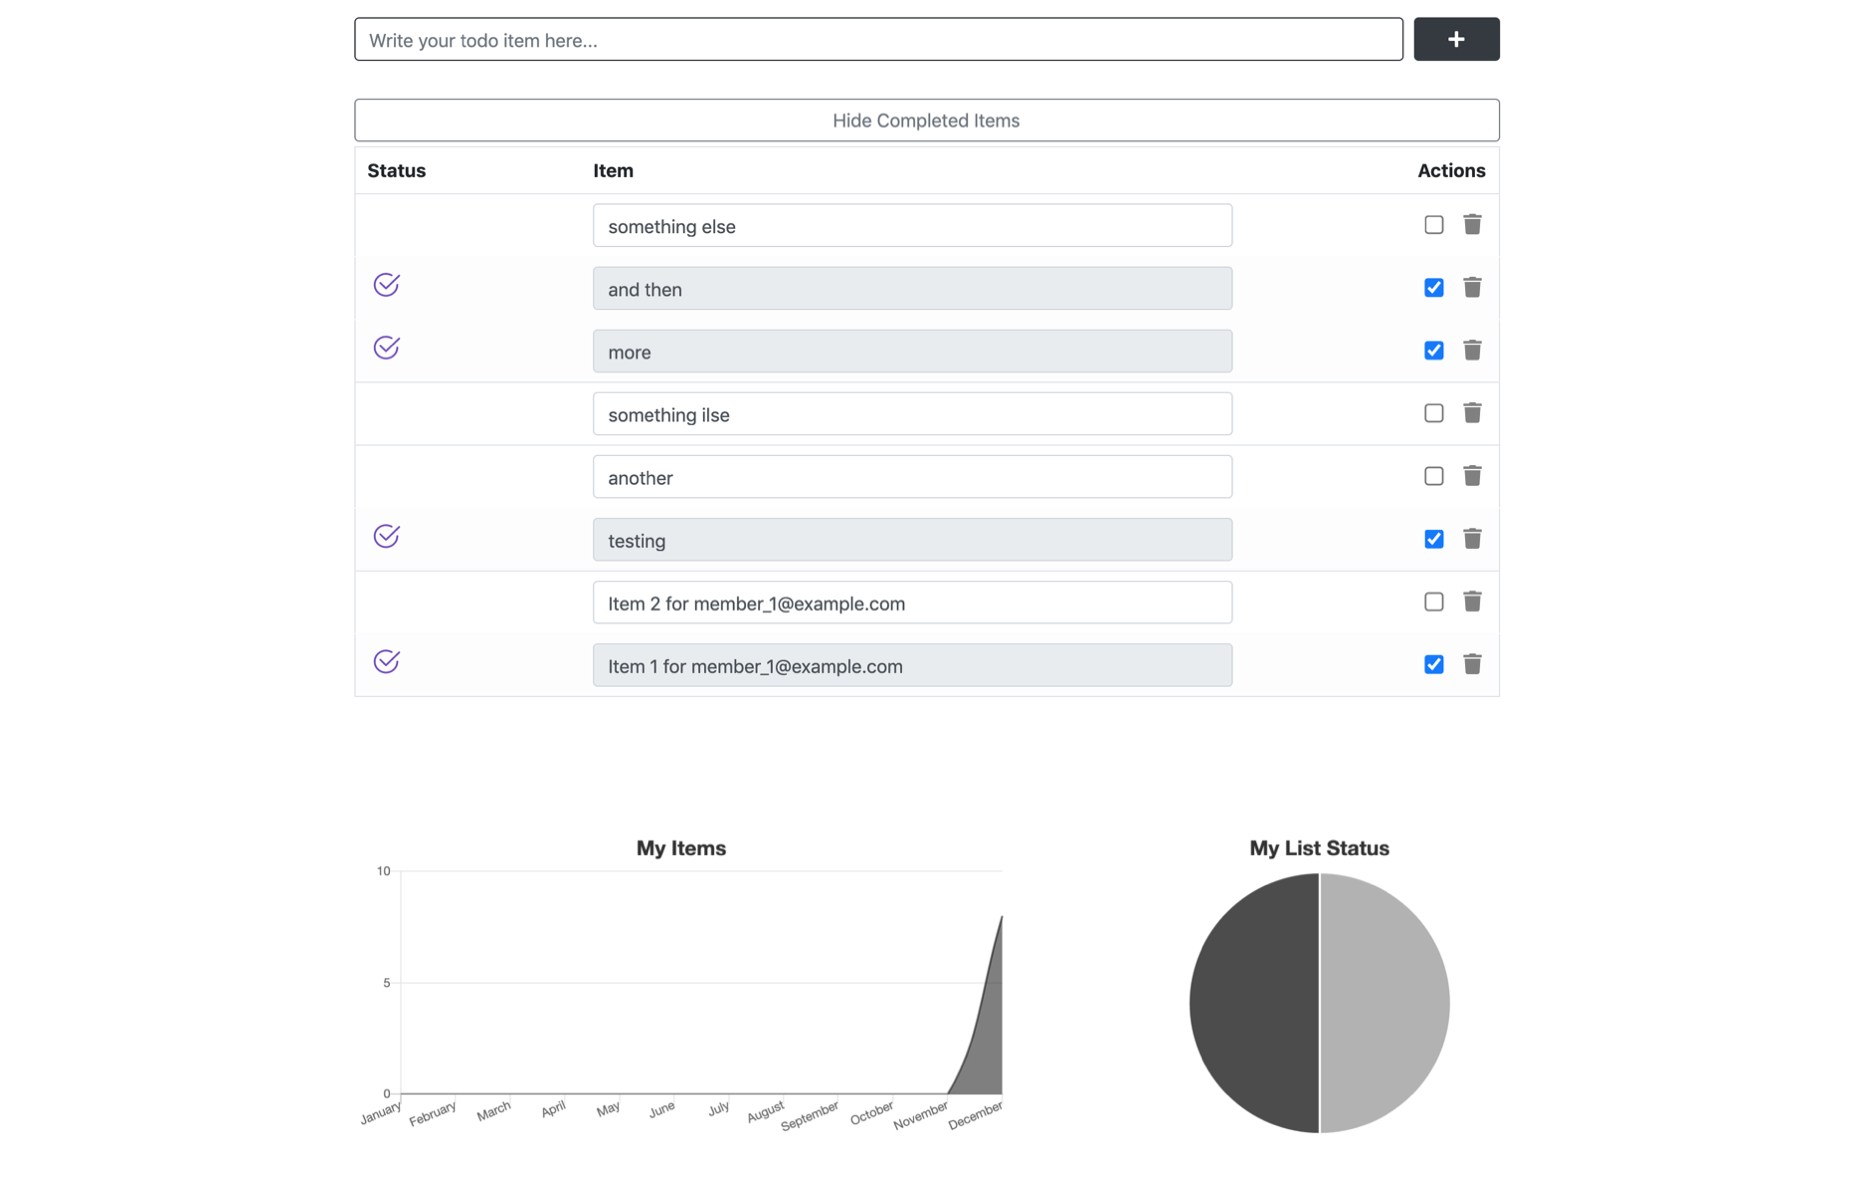
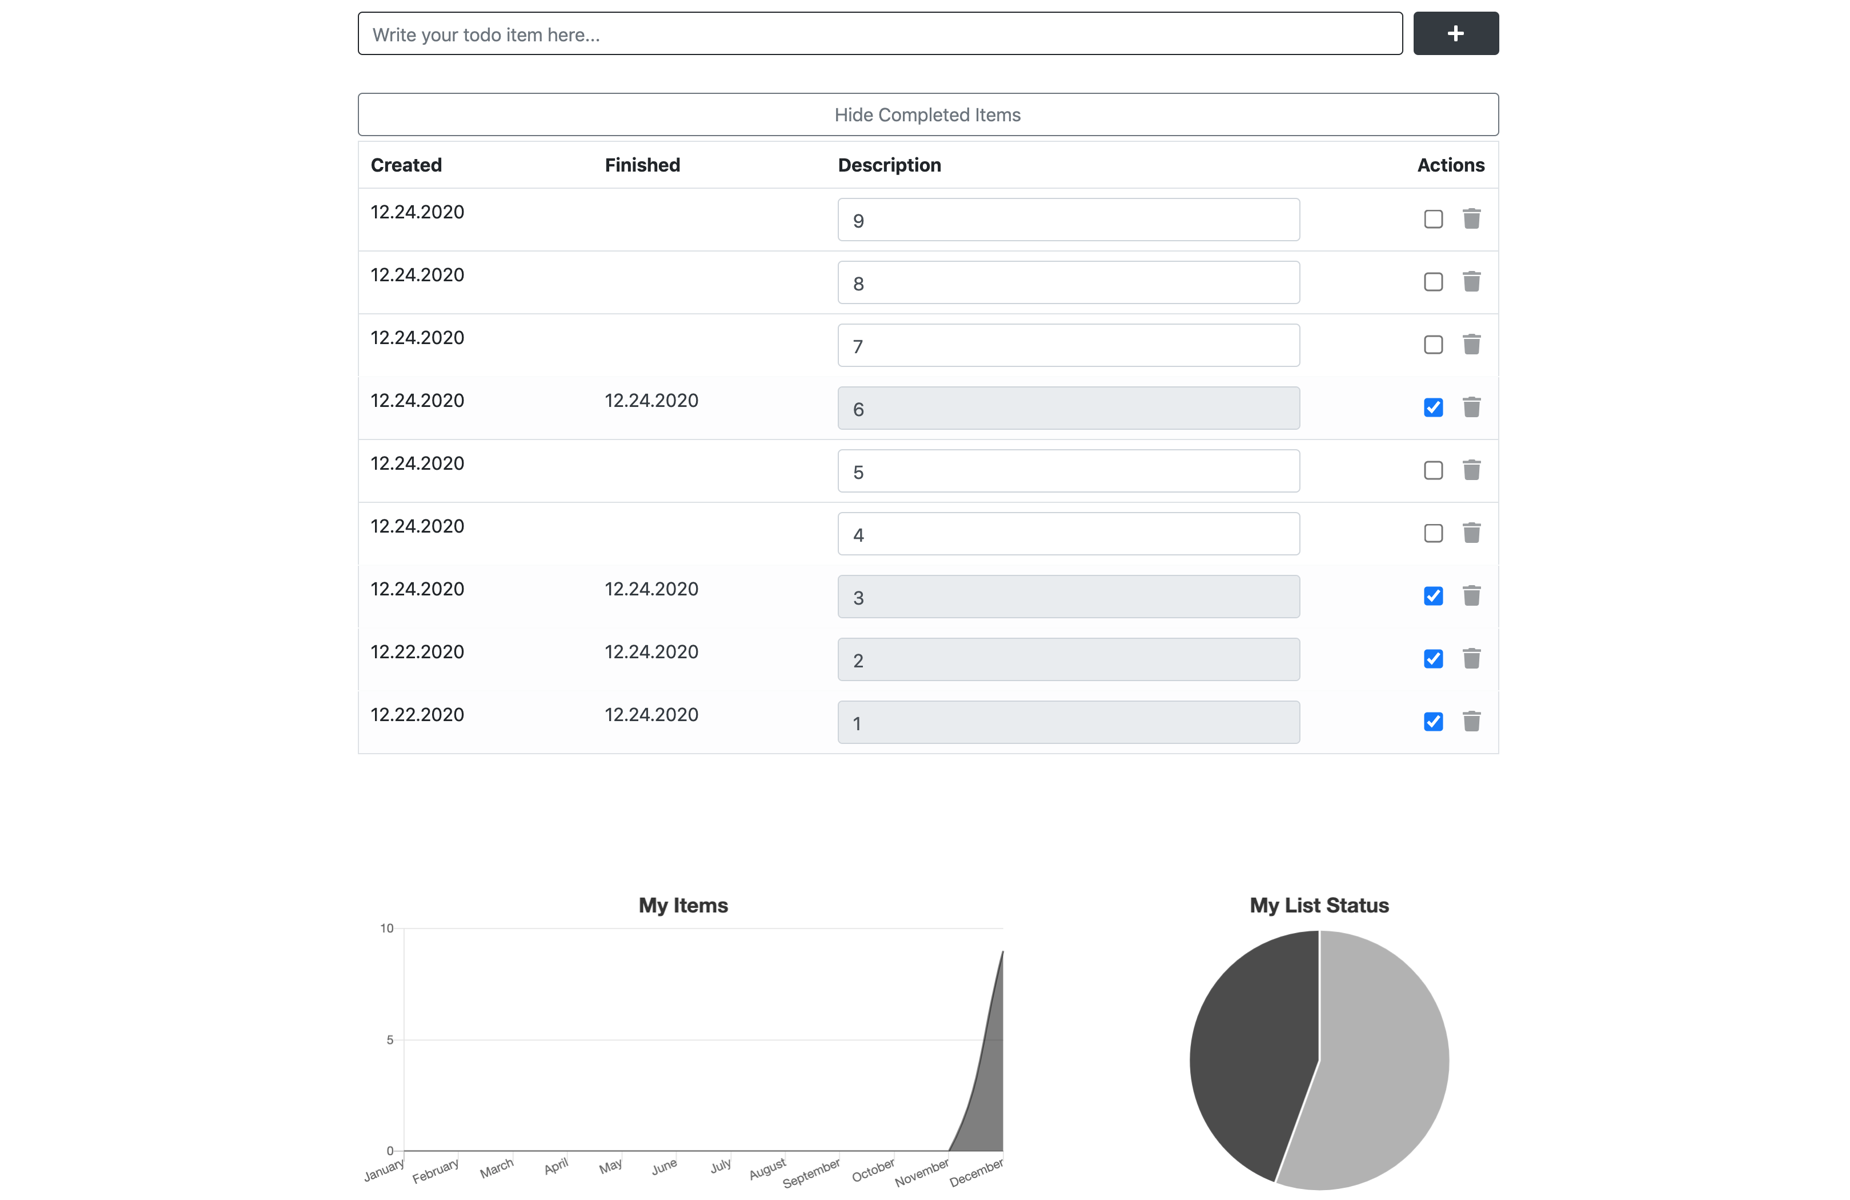
Todo timestamp columns
Temporary updated_at hack (today) until refresh

https://apidock.com/ruby/DateTime/strftime

diff --git a/app/javascript/packs/components/TodoItem.jsx b/app/javascript/packs/components/TodoItem.jsx
@@ -14,6 +14,7 @@ class TodoItem extends React.Component {
     this.updateTodoItem = this.updateTodoItem.bind(this);
     this.inputRef = React.createRef();
     this.completedRef = React.createRef();
+    this.finishedRef = React.createRef();
     this.handleDestroy = this.handleDestroy.bind(this);
     this.path = `/api/v1/todo_items/${this.props.todoItem.id}`;
   }
@@ -22,6 +23,13 @@ class TodoItem extends React.Component {
     this.setState({
       complete: this.completedRef.current.checked
     });
+    // console.log(this.finishedRef.current);
+    var today = new Date();
+    var dd = String(today.getDate()).padStart(2, '0');
+    var mm = String(today.getMonth() + 1).padStart(2, '0');
+    var yyyy = today.getFullYear();
+    today = mm + '.' + dd + '.' + yyyy;
+    this.finishedRef.current.innerHTML = today;
     this.updateTodoItem();
   }
   updateTodoItem = _.debounce(() => {
@@ -74,27 +82,17 @@ class TodoItem extends React.Component {
     return (
       <tr className={`${ this.state.complete && this.props.hideCompletedTodoItems ? `d-none` : "" } ${this.state.complete ? "table-light" : ""}`} >
         <td>
-          <svg
-            className={`bi bi-check-circle ${
-              this.state.complete ? `text-shnozberry` : `text-white`
+          {todoItem.created}
+        </td>
+        <td>
+          <span
+            ref={this.finishedRef}
+            className={`finish-date ${
+              this.state.complete ? `text-dark` : `text-white`
             }`}
-            width="2em"
-            height="2em"
-            viewBox="0 0 20 20"
-            fill="currentColor"
-            xmlns="http://www.w3.org/2000/svg"
           >
-            <path
-              fillRule="evenodd"
-              d="M17.354 4.646a.5.5 0 010 .708l-7 7a.5.5 0 01-.708 0l-3-3a.5.5 0 11.708-.708L10 11.293l6.646-6.647a.5.5 0 01.708 0z"
-              clipRule="evenodd"
-            />
-            <path
-              fillRule="evenodd"
-              d="M10 4.5a5.5 5.5 0 105.5 5.5.5.5 0 011 0 6.5 6.5 0 11-3.25-5.63.5.5 0 11-.5.865A5.472 5.472 0 0010 4.5z"
-              clipRule="evenodd"
-            />
-          </svg>
+            {todoItem.finished}
+          </span>
         </td>
         <td>
           <input

diff --git a/app/javascript/packs/components/TodoItems.jsx b/app/javascript/packs/components/TodoItems.jsx
@@ -24,8 +24,9 @@ class TodoItems extends React.Component {
           <table className="table">
             <thead>
               <tr>
-                <th scope="col">Status</th>
-                <th scope="col">Item</th>
+                <th scope="col">Created</th>
+                <th scope="col">Finished</th>
+                <th scope="col">Description</th>
                 <th scope="col" className="text-right">
                   Actions
                 </th>

diff --git a/app/models/todo_item.rb b/app/models/todo_item.rb
@@ -3,4 +3,12 @@ class TodoItem < ApplicationRecord
   belongs_to :user
   validates_presence_of :user
   validates :title, presence: true
+
+  def created
+    "#{self.created_at.strftime('%m.%d.%Y')}"
+  end
+  def finished
+    "#{self.updated_at.strftime('%m.%d.%Y')}"
+  end
+
 end
